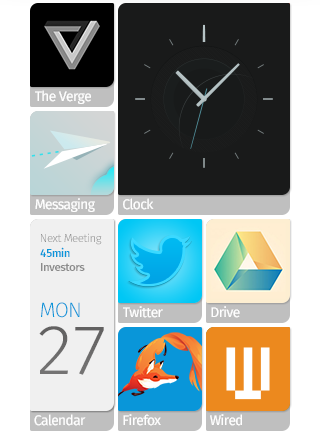
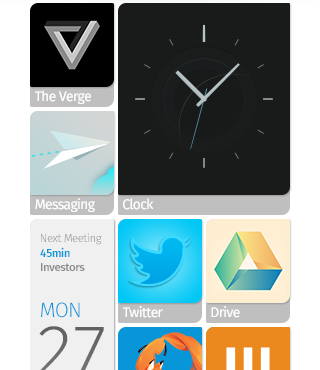
Add Basic RocketBar styles, crop home screen

diff --git a/assets/demo/demo.css b/assets/demo/demo.css
@@ -159,7 +159,7 @@ a:active {
 }
 
 .demo-app-grid {
-  margin: 72px 0 0 0;
+  margin: 80px 0 0 0;
 }
 
 .deck-card {
@@ -169,7 +169,7 @@ a:active {
   overflow: hidden;
   left: 30px;
   position: absolute;
-  top: 96px;
+  top: 102px;
   transition: width 150ms ease-out,
               height 150ms ease-out,
               top 150ms ease-out,
@@ -272,16 +272,37 @@ a:active {
 
 .rocketbar {
   left: 0;
-  padding: 30px 30px 0;
+  padding: 36px 12px 0;
   position: absolute;
   transition: left 500ms cubic-bezier(0.215, 0.610, 0.355, 1.000);
   right: 0;
   top: 0;
+  width: 296px;
   z-index: 2;
 }
 
-
 .js-rocketbar-push-left {
   left: 320px
+}
+
+.rocketbar-faux-input {
+  background: #fff url(sprite-y-a.png) 0 -300px no-repeat;
+  border-radius: 8px;
+  box-shadow: inset 1px 1px 1px rgba(0, 0, 0, .2),
+              0 0 0 1px rgba(0, 0, 0, .3),
+              1px 1px 0 1px rgba(255, 255, 255, .2);
+  display: block;
+  height: 36px;
+  position: relative;
+  padding: 0 10px 0 36px;
+  width: -moz-calc(100% - 46px);
+}
+.rocketbar-input {
+  background: transparent;
+  display: block;
+  border: 0;
+  height: 23px;
+  padding: 7px 0 6px;
+  width: 100%;
 }
 

diff --git a/index.html b/index.html
@@ -21,7 +21,9 @@
       <div class="demo-status-bar"></div>
       <div class="home-background" style="background-image: url(assets/wallpaper1.jpg); width: 1600px;" id="home-background-1"></div>
       <div class="rocketbar js-rocketbar-push-left" id="rocketbar">
-        <input type="text" class="rocketbar-input" value="Search for anything&hellip;" />
+        <span type="text" class="rocketbar-faux-input">
+          <input type="text" class="rocketbar-input" placeholder="Search for anything&hellip;" />
+        </span>
       </div><!-- .rocketbar -->
       <ul class="home-screens" id="home-screens">
         <li class="home-screen home-lock-screen">
